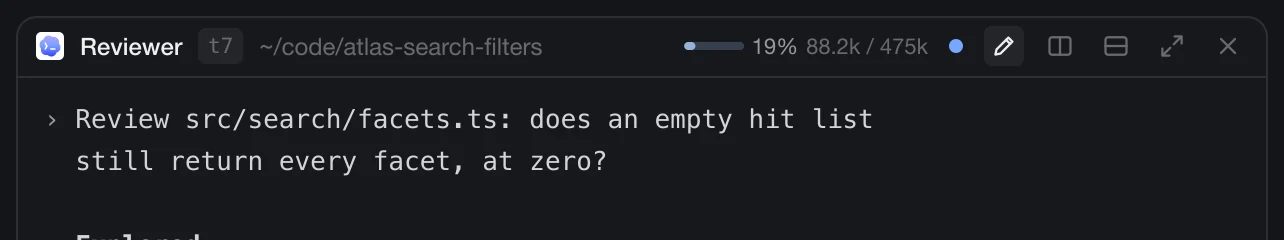
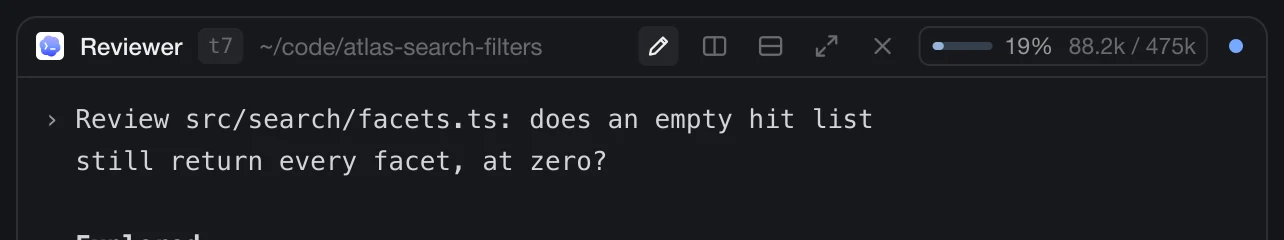
feat: the context meter as the mockup's pill, the hover card as its card; the header's buttons before the meter
- roundup-pane: the meter is a framed pill, 20px high (bar, percent at
  least 26px wide, tokens); without a window its tokens in the same pill.
- The hover buttons come in after the folder, before the meter and the
  status, so those two no longer jump when the pointer enters the header.
- The hover card as in the mockup: the pane's icon, name and id chip; the
  tokens in use big with the window and the percent; rows of label, value
  and a dim extra (Free, Model, Read, Compacted, Idle compact); notes below.
  context/card.js gives a model (cardModel) instead of text rows.
- RECIPE, catalog PAN-20, PAN-21 and the new PAN-43; preview.py draws the
  pill, the button order and the card; site/img, the layout's SVG and
  preview.png redrawn.

Refs #30

Claude-Session: https://claude.ai/code/session_01TdeSnaPA2VMeyEzFDdzQQf

Changed region(s): [[0.4984, 0.1458, 0.9657, 0.2333]]

diff --git a/mods/roundup-pane/context-view.js b/mods/roundup-pane/context-view.js
@@ -1,5 +1,6 @@
-// The context meter in the pane header: a bar of two divs (the track in the bar's color at low
-// alpha, the fill on top), the percent and the tokens; a hover card with the details. No click.
+// The context meter in the pane header: a framed pill holding a bar of two divs (the track in the
+// bar's color at low alpha, the fill on top), the percent and the tokens; a hover card with the
+// details. No click.
 //
 // - Below 65 % the bar is `accent` and the number `muted`; from 65 % `working`, from 80 % `blocked`,
 //   the number `foreground` with an alert mark before it, so the level never rests on hue alone.
@@ -9,24 +10,29 @@
 import { div, svg } from "gpui-kit";
 import { h_flex, v_flex, HoverCard } from "gpui-base";
 import { share, percentText, severity, usedText, tokens } from "./context/text.js";
-import { cardRows } from "./context/card.js";
+import { cardModel } from "./context/card.js";
 
 export const BAR_W = 30;
 export const BAR_H = 4;
+export const PILL_H = 20;
+export const PCT_MIN_W = 26;
 
 export function barColor(t, sev) {
   return sev === "critical" ? t.blocked : sev === "tight" ? t.working : t.accent;
 }
 
 // `covered`: an overlay the card would draw above is open (the card's layer is above popups).
-export function meter(t, { pane, reading, tier, agent, hint = null, covered = false }) {
+// `head`: { pic, name, id, font } for the card's top line, as the header shows them.
+export function meter(t, { pane, reading, tier, agent, hint = null, covered = false, head = null }) {
   if (!reading || tier === "none") return null;
   const p = share(reading);
   const hasWindow = Number.isFinite(reading.window) && reading.window > 0 && Number.isFinite(p);
   const sev = hasWindow ? severity(p) : "ok";
   const color = barColor(t, sev);
   const loud = sev !== "ok";
-  const el = h_flex().id(`ph-ctx-${pane}`).flex_none().gap(5).items_center().text_size(11);
+  // The pill of the mockup (variant E): framed, 20 px high, the hover color under the pointer.
+  const el = h_flex().id(`ph-ctx-${pane}`).flex_none().h(PILL_H).px(7).gap(6).items_center().rounded(5)
+    .border_1().border_color(t.border).text_size(11.5).hover((s) => s.bg(t.hover));
   if (!hasWindow) {
     if (!Number.isFinite(reading.used)) return null;
     el.child(div().flex_none().text_color(t.muted).child(tokens(reading.used)));
@@ -36,20 +42,46 @@ export function meter(t, { pane, reading, tier, agent, hint = null, covered = fa
       el.child(div().flex_none().w(BAR_W).h(BAR_H).rounded(2).bg(color + "40")
         .child(div().h(BAR_H).w(fill).rounded(2).bg(color)));
     }
-    if (loud) el.child(svg("mods/roundup-pane/alert.svg").size(11).flex_none().text_color(color));
-    el.child(div().flex_none().text_color(loud ? t.foreground : t.muted).when(loud, (e) => e.font_medium())
+    // The number with its mark keeps a least width, so 9 % → 10 % doesn't move the tokens.
+    const num = h_flex().flex_none().min_w(PCT_MIN_W).gap(3).items_center();
+    if (loud) num.child(svg("mods/roundup-pane/alert.svg").size(10).flex_none().text_color(color));
+    num.child(div().flex_none().text_color(loud ? t.foreground : t.muted).when(loud, (e) => e.font_medium())
       .child(`${reading.windowRounded ? "~" : ""}${percentText(p)}`));
+    el.child(num);
     if (tier === "full") el.child(div().flex_none().text_color(t.dim).child(usedText(reading)));
   }
   return HoverCard.new(`ph-ctx-card-${pane}`).anchor("top_right").open_delay(400).close_delay(150).trigger(el)
-    .content(covered ? div() : card(t, cardRows(reading, { agent, hint })));
+    .content(covered ? div() : card(t, cardModel(reading, { agent, hint }), head));
 }
 
-function card(t, rows) {
-  const tone = { title: t.dim, main: t.foreground, plain: t.muted, note: t.dim, warn: t.working };
-  return v_flex().id("ph-ctx-card").mt(4).w(280).p(10).gap(4).rounded(10).border(1).border_color(t.border).bg(t.popover).shadow_lg().text_size(11.5)
-    .children(rows.map((r, i) => div().id(`ph-ctx-row-${i}`).text_color(tone[r.kind] ?? t.muted)
-      .when(r.kind === "title", (e) => e.text_size(10.5).font_semibold())
-      .when(r.kind === "main", (e) => e.text_size(13).font_medium())
-      .child(r.text)));
+// The card of the mockup: the pane's icon, name and id chip; the tokens in use, big, the window and
+// the percent (with its mark from 65 %); rows of label, value and a dim extra; notes in `dim`.
+export const CARD_W = 260;
+const LABEL_W = 84, VALUE_W = 50;
+function card(t, model, head) {
+  const { big, rows, notes } = model;
+  const loud = big.sev !== "ok";
+  const markColor = barColor(t, big.sev);
+  const top = h_flex().id("ph-ctx-head").gap(7).items_center().mb(6);
+  if (head?.pic) top.child(head.pic);
+  top.child(div().flex_none().font_semibold().text_color(t.foreground).child(head?.name ?? "Context"));
+  if (head?.id) top.child(div().flex_none().px(5).rounded(4).bg(t.hover).text_color(t.dim).text_size(10.5)
+    .when(Boolean(head.font), (e) => e.font_family(head.font)).child(head.id));
+  const pct = h_flex().id("ph-ctx-pct").ml_auto().pl(14).gap(3).items_center().flex_none().font_semibold().text_color(t.foreground);
+  if (loud) pct.child(svg("mods/roundup-pane/alert.svg").size(11).flex_none().text_color(markColor));
+  pct.child(big.percent);
+  const line = h_flex().id("ph-ctx-big").items_baseline().gap(5).mb(5)
+    .child(div().flex_none().text_size(15).font_semibold().text_color(t.foreground).child(big.used))
+    .child(div().flex_none().text_color(t.muted).child(big.of))
+    .when(Boolean(big.percent), (e) => e.child(pct));
+  const box = v_flex().id("ph-ctx-card").mt(4).w(CARD_W).py(9).px(11).rounded(8).border_1().border_color(t.border)
+    .bg(t.popover).shadow_lg().text_size(12).child(top).child(line)
+    .children(rows.map((r, i) => h_flex().id(`ph-ctx-row-${i}`).h(20).gap(8).items_center()
+      .child(div().flex_none().w(LABEL_W).text_color(t.muted).child(r.label))
+      .child(div().when(Boolean(r.extra), (e) => e.flex_none().w(VALUE_W)).when(!r.extra, (e) => e.flex_1().truncate())
+        .font_semibold().text_color(r.kind === "warn" ? t.working : t.foreground).child(r.value))
+      .when(Boolean(r.extra), (e) => e.child(div().flex_1().truncate().text_color(t.dim).child(r.extra)))));
+  if (notes.length) box.child(v_flex().id("ph-ctx-notes").mt(5).gap(3).text_size(11).text_color(t.dim)
+    .children(notes.map((n, i) => div().id(`ph-ctx-note-${i}`).child(n))));
+  return box;
 }

diff --git a/mods/roundup-pane/context/card.js b/mods/roundup-pane/context/card.js
@@ -1,40 +1,49 @@
-// What the meter's hover card says, as rows of text. Pure, so tests/context-card.test.mjs runs it.
-// Estimates and rounded values carry "~"; what the source can't tell is said, not guessed.
+// What the meter's hover card says, laid out as the mockup's card (variant E): a big line with the
+// tokens in use, the window and the percent; rows of label, value and a dim extra; notes below.
+// Pure, so tests/context-card.test.mjs runs it. Estimates and rounded values carry "~"; what the
+// source can't tell is said, not guessed. The head (icon, name, id) comes from the header.
 
-import { tokens, share, percentText, clock } from "./text.js";
+import { tokens, share, percentText, severity, clock } from "./text.js";
 
 const FROM = {
-  "status-line": "Claude Code's status line",
-  transcript: "the transcript's last answer",
-  compaction: "the compaction",
-  rollout: "the Codex rollout",
+  "status-line": "status line",
+  transcript: "transcript",
+  compaction: "compaction",
+  rollout: "Codex rollout",
 };
 
-// rows: [{ text, kind }], kind one of "title", "main", "plain", "note", "warn".
-export function cardRows(reading, { agent, hint = null } = {}) {
-  if (!reading) return [];
-  const rows = [];
-  const add = (text, kind = "plain") => rows.push({ text, kind });
+// → { big: { used, of, percent, sev }, rows: [{ label, value, extra, kind }], notes: [text] }, or null.
+// `kind` is "plain" or "warn"; `big.of` is "of 200k", "in use · window unknown" or "".
+export function cardModel(reading, { agent, hint = null } = {}) {
+  if (!reading) return null;
   const approx = reading.windowRounded ? "~" : "";
   const hasWindow = Number.isFinite(reading.window) && reading.window > 0;
-  add("Context window", "title");
-  if (hasWindow && Number.isFinite(reading.used)) {
-    add(`${tokens(reading.used)} of ${approx}${tokens(reading.window)} in use · ${percentText(share(reading))}`, "main");
+  const hasUsed = Number.isFinite(reading.used);
+  const p = share(reading);
+  const rows = [], notes = [];
+  const row = (label, value, extra = "", kind = "plain") => rows.push({ label, value, extra, kind });
+  let big;
+  if (hasWindow && hasUsed) {
+    big = { used: tokens(reading.used), of: `of ${approx}${tokens(reading.window)}`, percent: `${approx}${percentText(p)}`, sev: severity(p) };
     const free = reading.window - reading.used;
-    add(free >= 0 ? `${approx}${tokens(free)} free` : `${tokens(-free)} over the window`);
-  } else if (Number.isFinite(reading.used)) {
-    add(`${tokens(reading.used)} in use · window unknown`, "main");
-  } else if (Number.isFinite(reading.percent)) {
-    add(`~${percentText(reading.percent)} in use`, "main");
+    if (free >= 0) row("Free", `${approx}${tokens(free)}`, percentText((free / reading.window) * 100));
+    else row("Over", tokens(-free), "beyond the window", "warn");
+  } else if (hasUsed) {
+    big = { used: tokens(reading.used), of: "in use · window unknown", percent: "", sev: "ok" };
+  } else {
+    big = { used: `~${percentText(reading.percent)}`, of: "in use", percent: "", sev: severity(reading.percent) };
   }
-  if (reading.model) add(`Model ${reading.model}`);
-  add(`Read ${clock(reading.at)}, from ${FROM[reading.source] ?? reading.source}`);
-  if (hint !== null) add(`Idle compaction expected around ${clock(hint)} (about 55 min after the last answer; observed on this machine)`, "warn");
+  if (reading.model) row("Model", reading.model);
+  row("Read", clock(reading.at), FROM[reading.source] ?? reading.source);
   const c = reading.compaction;
-  if (c && Number.isFinite(c.post)) add(`Compacted ${clock(c.at)}${Number.isFinite(c.pre) ? `: ${tokens(c.pre)} → ${tokens(c.post)}` : `: now ${tokens(c.post)}`}`);
-  if (reading.windowRounded) add("Window from this session's /context, which rounds it", "note");
-  if (!hasWindow && agent === "claude") add("Switch on the status line integration for its window: scripts/agent-integrations.sh install claude (or type /context)", "note");
-  if (agent === "codex") add("The raw share of the window: Codex's /status takes a 12k baseline off", "note");
-  if (reading.setting) add(`${reading.setting} moves the auto-compact threshold`, "note");
-  return rows;
+  if (c && Number.isFinite(c.post)) row("Compacted", clock(c.at), Number.isFinite(c.pre) ? `${tokens(c.pre)} → ${tokens(c.post)}` : `now ${tokens(c.post)}`);
+  if (hint !== null) {
+    row("Idle compact", `~${clock(hint)}`, "estimate", "warn");
+    notes.push("Expected about 55 min after the last answer, as observed on this machine");
+  }
+  if (reading.windowRounded) notes.push("Window from this session's /context, which rounds it");
+  if (!hasWindow && agent === "claude") notes.push("Switch on the status line integration for its window: scripts/agent-integrations.sh install claude (or type /context)");
+  if (agent === "codex") notes.push("The raw share of the window: Codex's /status takes a 12k baseline off");
+  if (reading.setting) notes.push(`${reading.setting} moves the auto-compact threshold`);
+  return { big, rows, notes };
 }

diff --git a/mods/roundup-pane/main.js b/mods/roundup-pane/main.js
@@ -147,7 +147,8 @@ export default class Pane extends View {
     const st = p.status;
     const pane = p.pane;
     this.context?.see(p, focused()?.tab === p.tab, cx);
-    const ctx = this.context && meter(t, { pane, reading: this.context.reading, tier: tier(this.width), agent: this.context.strategy?.id, hint: this.context.hint, covered: Boolean(shared("roundup-menu.open")) });
+    const ctx = this.context && meter(t, { pane, reading: this.context.reading, tier: tier(this.width), agent: this.context.strategy?.id, hint: this.context.hint, covered: Boolean(shared("roundup-menu.open")),
+      head: { pic: icon(p.program, 14, t.dim), name, id: id.shown, font: settings().font_family ?? "JetBrains Mono" } });
     return h_flex()
       .id(`pane-head-${pane}`)
       .size_full()
@@ -189,16 +190,18 @@ export default class Pane extends View {
         .on_click((e, cx) => { if (e.click_count === 2) { cx.stop_propagation(); this.copyId(cx, id); } })
         .child(this.copied ? "copied" : id.shown))
       .child(div().flex_1().truncate().text_color(t.dim).child(folder(p.cwd, home())))
-      .when(Boolean(ctx), (el) => el.child(ctx))
-      .when(st === "working", el => el.child(svg("mods/workspace-chrome/spinner.svg").size(12).flex_none().text_color(t.working).spin(900)))
-      .when(st === "blocked", el => el.child(div().flex_none().px(6).h(18).flex().items_center().rounded(5).bg(t.blocked + "26").text_size(10.5).font_semibold().text_color(t.blocked).child("Needs you")))
-      .when(st === "done", el => el.child(div().size(7).flex_none().rounded(4).bg(t.done)))
+      // Roundup: the hover buttons come before the meter and the status (Herdr: after the status),
+      // so those two stay where they are when the pointer enters the header.
       .when(this.hovered, el => el
         .child(this.button(t, `ph-n-${pane}`, "rename", "Rename", () => this.openRename(p, given, fallback)))
         .child(this.button(t, `ph-r-${pane}`, "split-right", "Split right", () => run("pane.split", { direction: "right", pane })))
         .child(this.button(t, `ph-d-${pane}`, "split-down", "Split down", () => run("pane.split", { direction: "down", pane })))
         .child(this.button(t, `ph-z-${pane}`, p.zoomed ? "unzoom" : "zoom", p.zoomed ? "Unzoom" : "Zoom", () => run("pane.zoom", { pane })))
-        .child(this.button(t, `ph-x-${pane}`, "close", "Close", () => closePane(pane))));
+        .child(this.button(t, `ph-x-${pane}`, "close", "Close", () => closePane(pane))))
+      .when(Boolean(ctx), (el) => el.child(ctx))
+      .when(st === "working", el => el.child(svg("mods/workspace-chrome/spinner.svg").size(12).flex_none().text_color(t.working).spin(900)))
+      .when(st === "blocked", el => el.child(div().flex_none().px(6).h(18).flex().items_center().rounded(5).bg(t.blocked + "26").text_size(10.5).font_semibold().text_color(t.blocked).child("Needs you")))
+      .when(st === "done", el => el.child(div().size(7).flex_none().rounded(4).bg(t.done)));
   }
 
   // --- the rename dialog (this mod as an overlay), shaped like Herdr's `prompt` ---

diff --git a/scripts/preview.py b/scripts/preview.py
@@ -78,6 +78,7 @@ ICON = {
 }
 # roundup-pane's and roundup-preview's own icons, drawn on a 16px grid.
 ICON16 = {
+    "alert": '<path d="M8 2.2 14.2 13H1.8Z"/><path d="M8 6.4v3"/><path d="M8 11.4v.1"/>',
     "rename": '<path d="M10.5 3.2l2.3 2.3L6 12.3l-2.9.6.6-2.9z"/><path d="M9.2 4.5l2.3 2.3"/>',
     "split-right": '<rect x="2" y="3" width="12" height="10" rx="1.5"/><path d="M8 3v10"/>',
     "split-down": '<rect x="2" y="3" width="12" height="10" rx="1.5"/><path d="M2 8h12"/>',
@@ -470,29 +471,39 @@ def pane(x, w, prog, name, address, status, focus, lines, bottom, hover=False, y
     hx += chip + 8
     text(hx, PY + 19.5, "~/code/atlas-search-filters", 12, "dim")
     right = x + w - 10
-    if hover:
-        # 20px buttons (3px padding round a 14px icon), 8px apart, as the header's gap.
-        right -= 5 * 20 + 4 * 8
-        for i, glyph in enumerate(["rename", "split-right", "split-down", "zoom", "x"]):
-            bx_ = right + i * 28
-            if i == 0:
-                rect(bx_, PY + 5, 20, 20, "hover", rx=4)
-            icon(glyph, bx_ + 3, PY + 8, 14, "foreground" if i == 0 else "dim", sw=1.3)
-        right -= 8
+    # Right to left: the status, the meter, then (on hover) the buttons, which roundup-pane puts
+    # before the meter so the meter and the status don't move.
+    mx = right - (12 + 8 if status in ("working", "done") else 0)
     if meter:
+        # The pill of the mockup: 20px high, framed in border, rounded 5, 7px padding, 6px gap,
+        # 11.5px text; the percent at least 26px wide.
         used, window = meter
         pct = used * 100 / window
         sev = "blocked" if round(pct) >= 80 else "working" if round(pct) >= 65 else "accent"
-        mx = right - (12 + 8 if status in ("working", "done") else 0)
-        METERS[address] = (mx, PY)
-        words = f"{tokens(used)} / {tokens(window)}"
-        text(mx, PY + 19, words, 11, "dim", anchor="end")
-        mx -= tw(words, 11) + 5
         loud = sev != "accent"
-        text(mx, PY + 19, f"{round(pct)}%", 11, "foreground" if loud else "muted", 500 if loud else 400, anchor="end")
-        mx -= tw(f"{round(pct)}%", 11, 500 if loud else 400) + 5
-        rect(mx - 30, PY + 13, 30, 4, sev, rx=2, op=0.25)
-        rect(mx - 30, PY + 13, max(1, 30 * min(pct, 100) / 100), 4, sev, rx=2)
+        words = f"{tokens(used)} / {tokens(window)}"
+        ptxt, pw_ = f"{round(pct)}%", max(26, tw(f"{round(pct)}%", 11.5, 500 if loud else 400) + (13 if loud else 0))
+        pill = 7 + 30 + 6 + pw_ + 6 + tw(words, 11.5) + 7
+        px_ = mx - pill
+        METERS[address] = (mx, PY)
+        frame(px_, PY + 5, pill, 20, "border", rx=5)
+        rect(px_ + 7, PY + 13, 30, 4, sev, rx=2, op=0.25)
+        rect(px_ + 7, PY + 13, max(1, 30 * min(pct, 100) / 100), 4, sev, rx=2)
+        nx = px_ + 7 + 30 + 6
+        if loud:
+            icon("alert", nx, PY + 10, 10, sev, sw=1.8)
+            nx += 13
+        text(nx, PY + 19, ptxt, 11.5, "foreground" if loud else "muted", 500 if loud else 400)
+        text(px_ + 7 + 30 + 6 + pw_ + 6, PY + 19, words, 11.5, "dim")
+        mx = px_ - 8
+    if hover:
+        # 20px buttons (3px padding round a 14px icon), 8px apart, as the header's gap.
+        bx0 = mx - (5 * 20 + 4 * 8)
+        for i, glyph in enumerate(["rename", "split-right", "split-down", "zoom", "x"]):
+            bx_ = bx0 + i * 28
+            if i == 0:
+                rect(bx_, PY + 5, 20, 20, "hover", rx=4)
+            icon(glyph, bx_ + 3, PY + 8, 14, "foreground" if i == 0 else "dim", sw=1.3)
     if status == "working":
         spinner(right - 6, PY + 15, "working", 5)
     elif status == "done":
@@ -1160,21 +1171,34 @@ if SCENE == "quicklook" or POSTER:
     add('</g>')
 
 # The context scene: the pointer rests on Claude Code's meter, its hover card hangs below it, its
-# top right at the meter's right (anchor top_right), 4px down; 280px wide, 10px padding, rows 4px apart.
-CARD_W = 280
+# top right at the meter's right (anchor top_right), 4px down. The card as context-view.js draws it
+# (the mockup's): 260px, 9 x 11px padding, rounded 8; the pane's icon, name and id chip; the tokens
+# in use big with the window and the percent; rows of label, value and a dim extra, 20px each.
+CARD_W = 260
 if SCENE == "context":
     mr, mt = METERS["t4"]
-    rows_ = [("Context window", 10.5, "dim", 600), ("412k of 1M in use · 41%", 13, "foreground", 500),
-             ("588k free", 11.5, "muted", 400), ("Model claude-opus-5-5", 11.5, "muted", 400),
-             ("Read 14:02, from Claude Code's status line", 11.5, "muted", 400)]
-    heights = [round(sz * 1.35) for _, sz, _, _ in rows_]
-    CARD_H = 20 + sum(heights) + 4 * (len(rows_) - 1)
+    rows_ = [("Free", "588k", "59%"), ("Model", "claude-opus-5-5", ""), ("Read", "14:02", "status line")]
+    CARD_H = 9 + 16 + 6 + 20 + 5 + 20 * len(rows_) + 9
     CARD_X, CARD_Y = mr - CARD_W, mt + 30 + 4
-    overlay(CARD_X, CARD_Y, CARD_W, CARD_H)
-    ty = CARD_Y + 10
-    for (label, sz, col, wt), hh in zip(rows_, heights):
-        text(CARD_X + 10, ty + hh * 0.78, label, sz, col, wt)
-        ty += hh + 4
+    overlay(CARD_X, CARD_Y, CARD_W, CARD_H, rx=8)
+    x0, y_ = CARD_X + 11, CARD_Y + 9
+    program("claude", x0, y_ + 1, 14, "dim")
+    text(x0 + 14 + 7, y_ + 12, "Claude Code", 12, "foreground", 600)
+    cx_ = x0 + 14 + 7 + tw("Claude Code", 12, 600) + 7
+    chip = mw("t4", 10.5) + 10
+    rect(cx_, y_ - 1, chip, 18, "hover", rx=4)
+    text(cx_ + 5, y_ + 11.5, "t4", 10.5, "dim", family=MONO)
+    y_ += 16 + 6
+    text(x0, y_ + 15, "412k", 15, "foreground", 600)
+    text(x0 + tw("412k", 15, 600) + 5, y_ + 15, "of 1M", 12, "muted")
+    text(CARD_X + CARD_W - 11, y_ + 15, "41%", 12, "foreground", 600, anchor="end")
+    y_ += 20 + 5
+    for label, value, extra in rows_:
+        text(x0, y_ + 14, label, 12, "muted")
+        text(x0 + 84 + 8, y_ + 14, value, 12, "foreground", 600)
+        if extra:
+            text(x0 + 84 + 8 + 50 + 8, y_ + 14, extra, 12, "dim")
+        y_ += 20
 
 # What each scene is cropped to: x, y, width, height. A fourth argument "full" keeps the window.
 CROPS = {

diff --git a/tests/CATALOG.md b/tests/CATALOG.md
@@ -177,8 +177,8 @@ Nothing may need a person: there is no pointer or key injection, so L2 calls han
 | PAN-17 | A terminal outside a tab (`target.pane` not in `panes()`: a layout terminal block, a window) gets no Split right/down, Zoom or Close pane, as in Herdr's menu 0.1.14, and no "Ask before closing a pane" with its three choices; its terminal rows stay. A menu left with no rows closes on Esc and ignores ↑/↓/Enter. | Herdr menu 0.1.14; PR #34 review | L2 | pane-menu: "PAN-12, PAN-17: a terminal in a tab gets Split, Zoom and Close pane; one outside a tab only the terminal rows", "PAN-17: a menu with no rows at all closes on Esc and ignores the other keys" | herdr + gpui stubs | M |
 | PAN-18 | The meter's words: tokens `940`, `9.4k`, `97.6k`, `200k`, `1M`, `1.2M`; percent rounded, `<1%` between 0 and 1; severity `ok` < 65 ≤ `tight` < 80 ≤ `critical` by the rounded percent; `used / window`, tokens alone without a window. | #30 plan (What it looks like) | L1 | context-text: "tokens: 940, 9.4k, …", "the share of the window and its percent; …", "severity: tight from 65 %, …", "usedText: used / window, …" | — | M |
 | PAN-19 | Width tiers: the tokens go below 560px, the bar below 420px, the percent below 300px; before the first size, full. | #30 plan | L1/L2 | context-text: "the meter's tiers: …"; context-card: "the meter: bar, percent and tokens at full width; …" | — | M |
-| PAN-20 | The meter as drawn: a 30px bar on its color at 25% alpha (`accent`, `working` from 65 %, `blocked` from 80 %), an alert mark and a `foreground` number from 65 %; Claude without a window shows its tokens alone; a rounded window reads `~`. | #30 plan (R4) | L2 | context-card: "the meter: …", "from 65 % working with an alert mark …", "Claude without a window: …" | gpui stub | H |
-| PAN-21 | The hover card: tokens of the window and percent, free (or over), model, when and from what it was read; the idle compaction as an estimate; the last compaction; a rounded window; how to get a window; Codex's 12k baseline; empty while `roundup-menu.open` is set. | #30 plan (R4, R8) | L1/L2 | context-card: "the card: tokens of the window, …", "the card names the idle compaction …" | — | M |
+| PAN-20 | The meter as drawn: a pill 20px high framed in `border` (variant E of the mockup), in it a 30px bar on its color at 25% alpha (`accent`, `working` from 65 %, `blocked` from 80 %), an alert mark and a `foreground` number from 65 %; Claude without a window shows its tokens alone; a rounded window reads `~`. | #30 plan (R4) | L2 | context-card: "the meter: …", "from 65 % working with an alert mark …", "Claude without a window: …" | gpui stub | H |
+| PAN-21 | The hover card as in the mockup: the pane's icon, name and id chip; the tokens in use big, the window and the percent (alert mark from 65 %); rows Free (or Over), Model, Read, Compacted, Idle compact as an estimate; notes for the idle compaction, a rounded window, how to get a window, Codex's 12k baseline; empty while `roundup-menu.open` is set. | #30 plan (R4, R8); mockup variant E | L1/L2 | context-card: "the card: the tokens in use big …", "the card's head as in the mockup: …", "the card names the idle compaction …" | gpui stub | M |
 | PAN-22 | The header: a meter only in a header copy (not the rename dialog, not the terminal menu), none for a shell; with a reading, between the folder and the status. | #30 plan | L2 | context-card: "the header: no meter for a shell, …", "the header: a Claude pane with a reading shows the meter …" | herdr + gpui stubs | M |
 | PAN-23 | Reading a big file's end: complete lines only (a chunk from the middle drops its first piece, a line being written goes); 256 KiB, then four times more until found or the whole file. | #30 plan (2) | L1/L2 | context-text: "completeLines: …", "scanTail reads 256 KiB, …"; context-reader: "with the real Claude strategy, the usage line behind a huge line is found by growing the tail" | — | H |
 | PAN-24 | Locate helpers: a thread id whole or as Codex cuts it (none, two or too short: null); a UUIDv7's time; an integration file only for this terminal, this pid, `v: 1`. | #30 plan (2a) | L1 | context-text: "byTitle: …", "uuid7Time: …", "byTerminalFile: …" | — | H |
@@ -200,6 +200,7 @@ Nothing may need a person: there is no pointer or key injection, so L2 calls han
 | PAN-40 | The status line script keeps Claude's JSON per terminal with its pid atomically and runs the previous line with the same stdin; nothing outside a Herdr terminal or for an odd terminal id. | #30 step 4 | L2 | agent-integrations: "the status line script keeps …", "the status line script writes nothing …" | temp home | H |
 | PAN-41 | `agent-integrations.sh` codex: without `terminal_title` Codex's defaults plus `thread-id`; the person's items stay (after `activity`, else first); no `[tui]` or only dotted keys: a dotted key; uninstall restores the file exactly (one it created goes); a title with the id already or over several lines is not changed; a line changed since is left alone; `status` lists both, a wrong call prints the usage. | #30 step 4 (Q1) | L2 | agent-integrations: the five "codex: …" tests, "status lists both agents; …" | temp home, python3 tomllib | H |
 | PAN-42 | Live: a Claude pane shows its tokens, with the status line integration its window and percent as `context_window` says; a Codex pane by its title and in direct mode the rollout's numbers; two agents in one folder their own; the hover card opens from the 30px header over the terminal and closes. | #30 step 8 (live, 2026-11-14) | L3 | — (checked by hand: `tests/support/live-probe.mjs`, screenshots) | isolated Herdr | M |
+| PAN-43 | Under the pointer the header's buttons (rename, split, zoom, close) come in after the folder, before the meter and the status, so those two don't move (reported 2026-11-14: the meter jumped left on hover). | #30 live look (step 6) | L2 | context-card: "the header: under the pointer the buttons come before the meter, …" | herdr + gpui stubs | M |
 
 ## roundup-tabs (TAB)
 

diff --git a/RECIPE.md b/RECIPE.md
@@ -118,14 +118,18 @@ on macOS, and can be dragged between 44 and 480px). Top to bottom:
   icon, the pane's name (`foreground`, medium), its id in a small mono chip
   (10.5px, `dim` on `hover`: the terminal's address such as `t5j`, or a mod
   pane's id shortened to `p` and 6 hex digits), the folder in `dim`, the
-  agent's context meter, the agent's status, and on hover rename, split
-  right, split down, zoom and close. The context meter (Claude Code and
-  Codex panes, 11px): a bar 30 × 4px (the fill on a track of the same
-  color at 25% alpha), the percent of the context window in use and the
-  tokens (`4% 18.3k / 475k`); `accent` and a `muted` number below 65%,
-  `working` from 65% and `blocked` from 80%, then with an alert triangle
-  before a `foreground` number. Without a known window only the tokens
-  (`340k`, `muted`). Terminal padding 14 × 12px. Right-clicking a terminal shows Herdr's
+  agent's context meter and the agent's status; on hover rename, split
+  right, split down, zoom and close come in after the folder, before the
+  meter, so the meter and the status don't move (Herdr's own header puts
+  them last). The context meter (Claude Code and Codex panes) is a pill
+  20px high, framed 1px in `border`, rounded 5px, 7px padding, 11.5px
+  text, `hover` under the pointer: a bar 30 × 4px (the fill on a track of
+  the same color at 25% alpha), the percent of the context window in use
+  (at least 26px wide) and the tokens in `dim` (`4% 18.3k / 475k`);
+  `accent` and a `muted` number below 65%, `working` from 65% and
+  `blocked` from 80%, then with an alert triangle before a `foreground`
+  number. Without a known window only the tokens (`340k`, `muted`) in the
+  same pill. Terminal padding 14 × 12px. Right-clicking a terminal shows Herdr's
   pane menu (Split right, Split down, Zoom, where right-clicks go, Close
   pane), then "Ask before closing a pane" with the same three choices, for
   panes only. A terminal outside a tab (a layout terminal block, a window)
@@ -271,14 +275,19 @@ on macOS, and can be dragged between 44 and 480px). Top to bottom:
   the agent works it follows within about 15s (and 2s after each status
   change); idle, within a minute. A narrow header drops the tokens first
   (below 560px), then the bar (below 420px); the percent stays down to 300px.
-  Hovering it for 400ms opens a card (280px, `popover`): the tokens of the
-  window in use and the percent, the tokens free, the model, when and from
-  what it was read, and as it applies: "Idle compaction expected around
-  14:32 (about 55 min after the last answer; observed on this machine)"
-  (`working`) for an idle Claude Code session above 200k, gone 5 min after
-  that time; "Compacted 14:02: 267k → 20.7k"; "~" on a window from
-  `/context`; how to switch on the integration when no window is known;
-  for Codex that `/status` takes a 12k baseline off. The card is empty while
+  Hovering it for 400ms opens a card as in the mockup (260px, `popover`,
+  rounded 8px, 12px text): on top the pane's icon, name (semibold) and id
+  chip as the header shows them; then the tokens in use big (15px,
+  semibold), "of 200k" in `muted` and the percent on the right (with the
+  alert mark from 65%); then rows of label (`muted`), value (semibold) and
+  a `dim` extra: Free (or Over) with its percent, Model, Read with its time
+  and source, Compacted `14:02 267k → 20.7k`, and for an idle Claude Code
+  session above 200k Idle compact `~14:32 estimate` in `working`, gone
+  5 min after that time. Notes below in `dim` 11px: that the idle
+  compaction comes about 55 min after the last answer (observed on this
+  machine), a window from `/context` that rounds it, how to switch on the
+  integration when no window is known, for Codex that `/status` takes a
+  12k baseline off. The card is empty while
   the logo menu (`roundup-menu`) is open. No click. No meter for a shell, a
   mod pane, an agent just started or of another machine, an unknown program,
   or when the source isn't proven (two Codex threads in one process, a file
